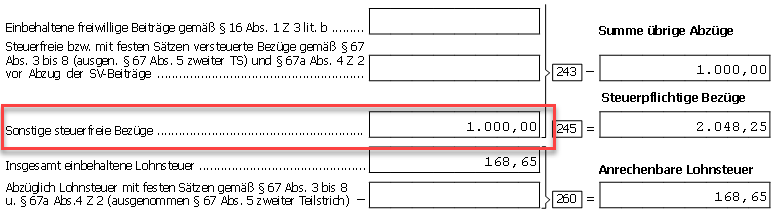
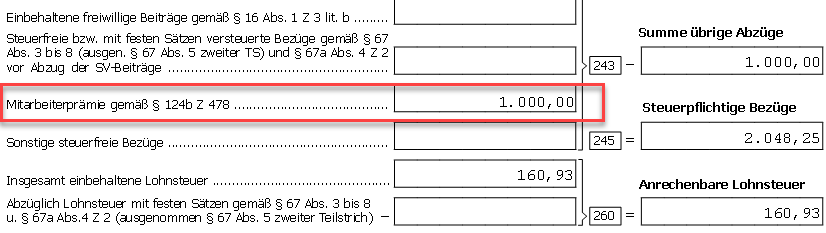
Anpassung Mitarbeiterprämie 2025

diff --git a/docs/LOHN/Abrechnungen_Sonderfälle/Mitarbeiterpraemie_2025.md b/docs/LOHN/Abrechnungen_Sonderfälle/Mitarbeiterpraemie_2025.md
@@ -13,12 +13,7 @@ Durch das Budgetbegleitgesetz 2025 hat der Gesetzgeber die Möglichkeit geschaff
 
 Für das Jahr 2025 sieht der Gesetzgeber **keine Befreiung** im Bereich der **Sozialversicherung** sowie der Nebenabgaben **DB/DZ** und **Kommunalsteuer** vor. Die fehlende Befreiung in der Sozialversicherung wird politisch mit der Vermeidung negativer Auswirkungen auf die Pensionshöhe begründet.
 
-Derzeit liegt noch **keine gesetzliche oder behördliche Stellungnahme** zur konkreten lohnsteuerlichen Behandlung der Mitarbeiterprämie 2025 vor. Nach aktueller Einschätzung unsererseits – die auch von einigen Fachexperten geteilt wird – wird es voraussichtlich nicht möglich sein, die auf die Prämie entfallenden Dienstnehmeranteile zur Sozialversicherung bei der Ermittlung der Lohnsteuer-Bemessungsgrundlage abzuziehen (laut [§ 20 Abs. 2 EStG](https://www.ris.bka.gv.at/NormDokument.wxe?Abfrage=Bundesnormen&Gesetzesnummer=10004570&Artikel=&Paragraf=20&Anlage=&Uebergangsrecht=)). Das bedeutet, dass sich der Auszahlungsbetrag an die Dienstnehmer nicht um den vollen steuerfreien Maximalbetrag von EUR 1.000,00 erhöht, sondern nur um einen entsprechend geringeren Nettobetrag.
-
-**Bitte beachten Sie:** Aufgrund der derzeit bestehenden Unsicherheit kann es – sollte sich unsere Annahme im Nachhinein als nicht korrekt herausstellen – noch zu einer Anpassung der Abrechnung kommen.
-
-!!! warning "Hinweis"
-    <span style="color: red;">Bislang gibt es seitens des Finanzamts keine eindeutige Stellungnahme dazu, ob die Mitarbeiterprämie ebenfalls unter [§ 20 Abs. 2 EStG](https://www.ris.bka.gv.at/NormDokument.wxe?Abfrage=Bundesnormen&Gesetzesnummer=10004570&Artikel=&Paragraf=20&Anlage=&Uebergangsrecht=) fällt.</span>
+Es ist nicht möglich, die auf die Prämie entfallenden Dienstnehmeranteile zur Sozialversicherung bei der Ermittlung der Lohnsteuer-Bemessungsgrundlage abzuziehen (laut [§ 20 Abs. 2 EStG](https://www.ris.bka.gv.at/NormDokument.wxe?Abfrage=Bundesnormen&Gesetzesnummer=10004570&Artikel=&Paragraf=20&Anlage=&Uebergangsrecht=)). Das bedeutet, dass sich der Auszahlungsbetrag an die Dienstnehmer nicht um den vollen steuerfreien Maximalbetrag von EUR 1.000,00 erhöht, sondern nur um einen entsprechend geringeren Nettobetrag.
 
 Wie in [§ 124b Z 478 lit. a EStG](https://www.ris.bka.gv.at/NormDokument.wxe?Abfrage=Bundesnormen&Gesetzesnummer=10004570&Artikel=&Paragraf=124b&Anlage=&Uebergangsrecht=) festgelegt, erhöht die Mitarbeiterprämie 2025 das Jahressechstel **nicht**.
 
@@ -28,7 +23,7 @@ Die Abrechnung der Mitarbeiterprämie 2025 in der RZL Lohnverrechnung muss über
 
 Die Entscheidung ob im Bereich der Sozialversicherung ein **laufender Bezug** oder eine **Sonderzahlung** vorliegt, muss in jedem Einzelfall sorgfältig abgewogen werden. Dabei kommt es nicht nur auf den Zeithorizont der Auszahlung an, sondern auch auf die Frage, ob mit dem Dienstnehmer eine wiederholte Gewährung der Prämie vereinbart wurde oder nicht.
 
-Zudem ist zu klären, ob aus der bisherigen Auszahlung von Corona-Prämien, Teuerungsprämien oder der „Mitarbeiterprämie alt“ eine wiederkehrende Zahlung abgeleitet werden kann – oder eben nicht.
+Zudem ist zu klären, ob aus der bisherigen Auszahlung von Corona-Prämien, Teuerungsprämien oder Mitarbeiterprämie 2024 eine wiederkehrende Zahlung abgeleitet werden kann – oder eben nicht.
 
 Letztlich spielt es auch eine Rolle, ob der Arbeitgeber beabsichtigt, die Prämie in den kommenden Jahren regelmäßig auszuzahlen – und sich damit auf eine derzeit unklare Gesetzeslage für 2026 einlässt.
 
@@ -84,9 +79,6 @@ Im L16 (Jahreslohnzettel) wird über die Kennzahl 226 jener Teil der SV-Dienstne
 ![Image](img/image625.png){width="600"}
 
 ![Image](img/image626.png){width="600"}
-
-!!! warning "Hinweis"
-    Zum Zeitpunkt der Implementierung der Mitarbeiterprämie lag noch kein neues L16 Formular vor. Aus diesem Grund wird der Betrag vorläufig unter „Sonstige steuerfreie Bezüge“ im L16 ausgewiesen. Sowohl der Ausdruck des L16 als auch die elektronische Übermittlung wurden unsererseits mit entsprechenden Warnhinweisen abgesichert. Die Weitergabe des L16-Formulars bei Auszahlung einer solchen Prämie ist zum aktuellen Zeitpunkt nicht zu empfehlen, da eine eindeutige gesetzliche oder technische Umsetzung noch aussteht.
 
 **Beispiel 2**
 
